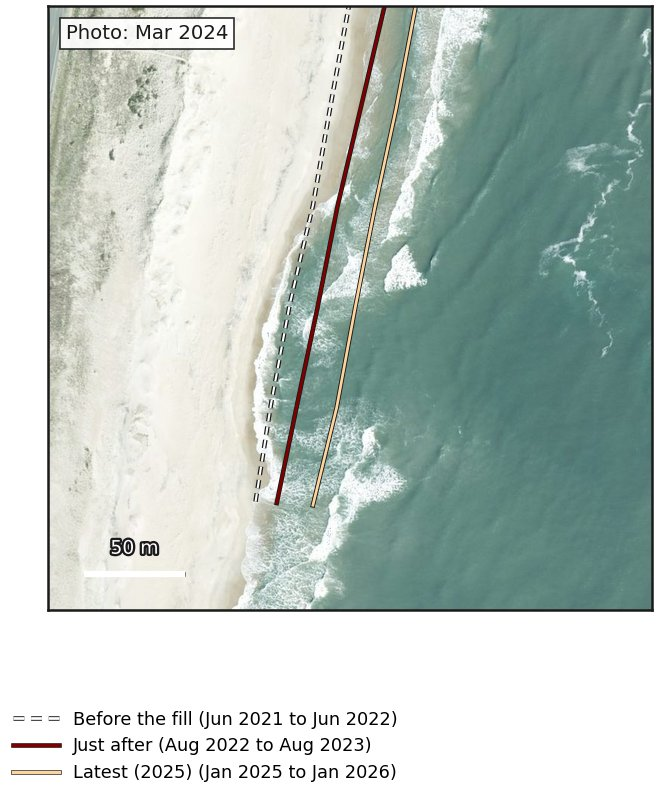
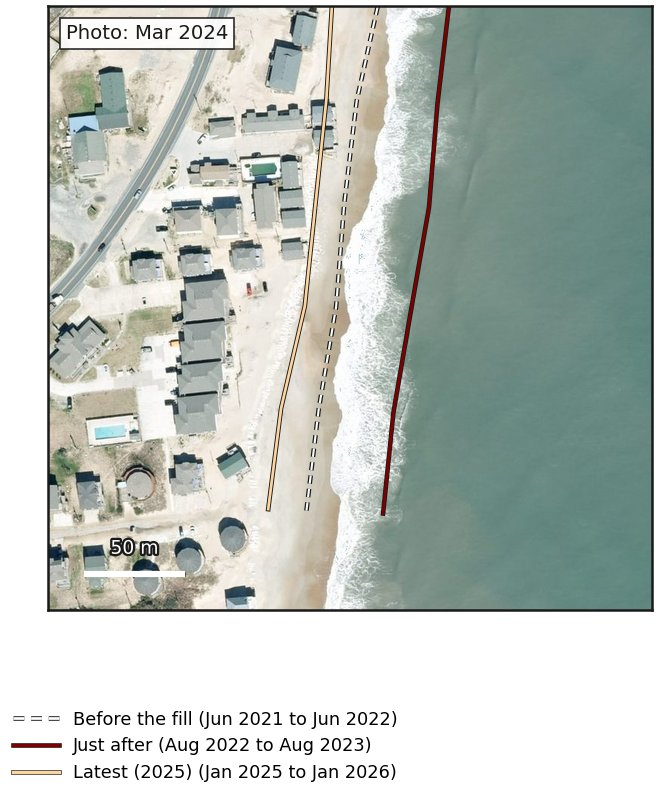
Pair each fill with the nearest aerial photos and their own shorelines
The before and after photos now come from the national agriculture imagery flights, taken weeks to months after each fill instead of years, and each photo carries the satellite shoreline from the time it was flown. The view sits where the new sand shows most clearly, and the caption says so.

diff --git a/assets/hatteras/js/nourishment-explorer.js b/assets/hatteras/js/nourishment-explorer.js
@@ -90,13 +90,15 @@
     var img = fig.querySelector("img");
     img.src = this.root.getAttribute("data-base") + p.src;
     img.alt = "Aerial photos of the same stretch of beach at " + name + ", before (" + p.before + ") and after (" + p.after +
-      ") the " + f.year + " fill, with the average shoreline of the 12 months before and after the fill drawn on them";
-    fig.querySelector("figcaption").innerHTML = "The same 300 m of beach at " + name + ", before and after the " + f.year +
-      " fill (sand placed " + p.placed + "). The dashed line is the average satellite shoreline over the 12 months before " +
-      "the sand went on; the solid line is the average over the 12 months after it was finished. The view sits where the " +
-      "change matches the average for the whole nourished stretch. The photos are the nearest ones flown before and after, " +
-      "so the water's edge in them need not sit on the lines. " +
-      "Photos: NC OneMap / NC Center for Geographic Information and Analysis. Shorelines: CoastSat.";
+      ") the " + f.year + " fill, with the satellite shoreline at the time of each photo drawn on them";
+    fig.querySelector("figcaption").innerHTML = "The same 300 m of beach at " + name + ", photographed from the air on " + p.before +
+      " and on " + p.after + ", before and after the " + f.year + " fill (sand placed " + p.placed + "). Each line is the " +
+      "satellite shoreline at the time of its photo, the average of the three satellite images nearest the flight. The view " +
+      "is the part of the nourished stretch where the shoreline moved furthest between the two photos, so the new sand shows " +
+      "clearly. The gap between the lines includes everything that changed between the two dates, not only the fill; the " +
+      "chart further down compares the fill with the rest of the island. Satellite shorelines mark mean sea level, so they sit " +
+      "a little landward of the wet edge in a photo taken at low tide. Photos: USDA National Agriculture Imagery Program " +
+      "(public domain), via Microsoft Planetary Computer. Shorelines: CoastSat.";
     var base = this.root.getAttribute("data-base"), refill = /refill/.test(p.moments.join(" "));
     var tt = this.root.querySelector(".hat-nx-time"), pr = this.root.querySelector(".hat-nx-profile");
     tt.hidden = pr.hidden = false;

diff --git a/tools/hatteras_nourishment_photos.py b/tools/hatteras_nourishment_photos.py
@@ -4,18 +4,20 @@ stakeholder pages.
 
     python tools/hatteras_nourishment_photos.py
 
-For each fill, two NC OneMap aerial photos of the same 300 m x 300 m frame on the nourished stretch: the
-last photo year before the fill and the first one after it. The lines are as close to the fill as the record allows:
-the average of every CoastSat shoreline in the 12 months before sand placement started (dashed, on both photos) and in
-the 12 months after it finished (solid, on the after photo), placed along the transects as in
-tools/hatteras_groin_photos.py. A full 12 months on each side keeps the summer and winter beach in both, and single
-shorelines scatter by about 10 m with tide and waves, so a shorter window would not be closer, only noisier. Hannah
-asked (2026-10-04) for real photos with the shorelines, one pair per fill, a tight frame, thin lines, and the lines
-matched as close to the fill as possible. The lines are raw positions, not the explorer's comparison with the rest of the island, and they need not
+For each fill, two USDA NAIP aerial photos (public domain, flown every two years in summer or autumn) of the same
+300 m x 300 m frame: the last flight before sand placement started and the first one after it finished, weeks to
+months after for every fill (NC OneMap flies Dare County only once in four years, so its nearest photos were one to
+three years away). Each photo carries the CoastSat shoreline of its own date, the average of the satellite shorelines
+within 30 days of the flight, so the line describes the beach in the photo (dashed: before, on both photos; solid:
+after). Lines are placed along the transects as in tools/hatteras_groin_photos.py. CoastSat marks mean sea level, so
+the line sits a little landward of the wet edge in a photo flown at low tide. Hannah asked (2026-10-04) for real
+photos with the shorelines, one pair per fill, a tight frame, thin lines, the fill clearly visible and the lines
+matching the imagery. The lines are raw positions, not the explorer's comparison with the rest of the island, and they need not
 match the water's edge in the photos, which were flown on other dates and tides.
-The frame goes where the change is typical: on the 300 m of beach (7 transects) whose average change between the two
-two windows is closest to the stretch's average, keeping 500 m clear of each end. Hannah chose this rule (2026-10-04)
-after the middle of the Buxton stretch turned out to have lost ground after the small 2022 fill while both ends gained.
+The frame goes where the fill shows most clearly: the 300 m of beach (7 transects) with the largest shoreline change
+between the two photo dates, keeping 500 m clear of each end of the stretch. Hannah first chose the typical spot
+(change closest to the stretch average), then asked (2026-10-04) for the spot where the fill is clearly visible; the
+caption says how the spot was chosen and the JSON keeps both the spot's change and the stretch average.
 Writes assets/hatteras/img/nourishment/<stretch>_<year>.jpg and assets/hatteras/data/nourishment_photos.json (keyed
 "<stretch> <year>" as the explorer names its fills). Photos are saved under tools/data/nourishment_photos/ so a re-run
 only redraws; pass --fetch to download them again. Needs the CASCADE repo beside this one.
@@ -63,8 +65,13 @@ PLACED_TEXT = {("Rodanthe", 2014): "late July to mid-September 2014", ("Buxton",
 DATES_CSV = SITE.parent / "CASCADE/data/hatteras_init/4-mgmt-forcing/nourishment/datasets/nourishment_placement_dates.csv"
 DATES_NAMES = {("Rodanthe", 2014): "Rodanthe emergency fill", ("Buxton", 2017): "Buxton beach nourishment",
                ("Buxton", 2022): "Buxton shore protection", ("Avon", 2022): "Avon shore protection"}
-# stretch, fill year, photo years before and after
-FILLS = [("Rodanthe", 2014, 2012, 2016), ("Buxton", 2017, 2016, 2020), ("Buxton", 2022, 2020, 2024), ("Avon", 2022, 2020, 2024)]
+# stretch, fill year, NAIP flight dates before and after (Planetary Computer STAC, searched 2026-10-04)
+FILLS = [("Rodanthe", 2014, "2012-06-28", "2014-10-17"), ("Buxton", 2017, "2016-09-10", "2018-10-29"),
+         ("Buxton", 2022, "2020-10-18", "2022-10-07"), ("Avon", 2022, "2020-10-18", "2022-10-07")]
+STAC = "https://planetarycomputer.microsoft.com/api/stac/v1/search"
+SIGN = "https://planetarycomputer.microsoft.com/api/sas/v1/sign?href="
+PHOTO_NEAREST = 3                        # a photo's line: the mean of the satellite shorelines nearest its flight
+PHOTO_MAX_DAYS = 130                     # ... none further than this (the sparse 2012 and 2020 passes reach ~4 months)
 WINDOW = 7                               # transects, 50 m apart: the frame's 300 m
 END_CLEAR_KM = 0.5
 LINE, REF_LINE = "#ffd23f", "#ffffff"
@@ -95,9 +102,20 @@ def series(tid):
     return _SERIES[tid]
 
 
+GAPS = []                                # days from each photo line's shorelines to its flight, for the caption
+
+
 def mean_in(t, w):
-    """Mean shoreline position on one transect inside a window, or None with fewer than three shorelines."""
+    """Mean shoreline position on one transect inside a window, or None with fewer than three shorelines. A window
+    given as a flight date takes the PHOTO_NEAREST shorelines closest to it instead."""
     date, pos = series(t["id"])
+    if isinstance(w, str):
+        gap = np.abs((date - pd.Timestamp(w, tz="UTC")).dt.days.values)
+        order = np.argsort(gap)[:PHOTO_NEAREST]
+        if len(order) < PHOTO_NEAREST or gap[order[-1]] > PHOTO_MAX_DAYS:
+            return None
+        GAPS.append(int(gap[order[-1]]))
+        return float(pos.values[order].mean())
     sel = pos[(date >= w[0]) & (date < w[1])]
     return float(sel.mean()) if len(sel) >= 3 else None
 
@@ -122,6 +140,53 @@ def shorelines(transects, box, wins):
             if m is not None:
                 out[i].append(tuple(a + u * m * k))
     return out
+
+
+def naip_export(date, box, size):
+    """The NAIP photo flown on `date`, warped onto the Web Mercator box (tiles that meet in the frame are combined)."""
+    import urllib.request
+    import rasterio
+    from rasterio.warp import reproject, Resampling, transform_bounds
+    from rasterio.transform import from_bounds
+    lon0, lat0, lon1, lat1 = transform_bounds("EPSG:3857", "EPSG:4326", *box)
+    body = json.dumps({"collections": ["naip"], "bbox": [lon0, lat0, lon1, lat1], "datetime": f"{date}T00:00:00Z/{date}T23:59:59Z",
+                       "limit": 20}).encode()
+    req = urllib.request.Request(STAC, data=body, headers={"Content-Type": "application/json"})
+    items = json.load(urllib.request.urlopen(req, timeout=120))["features"]
+    assert items, f"no NAIP flight on {date} over the frame"
+    dst = np.zeros((3, size, size), dtype=np.uint8)
+    dst_t = from_bounds(*box, size, size)
+    for it in items:
+        href = json.load(urllib.request.urlopen(SIGN + it["assets"]["image"]["href"], timeout=120))["href"]
+        with rasterio.open(href) as src:
+            part = np.zeros_like(dst)
+            for b in range(3):
+                reproject(rasterio.band(src, b + 1), part[b], dst_transform=dst_t, dst_crs="EPSG:3857",
+                          resampling=Resampling.bilinear)
+            empty = dst.sum(axis=0) == 0
+            dst[:, empty] = part[:, empty]
+    return Image.fromarray(np.moveaxis(dst, 0, -1)).convert("RGBA")
+
+
+def photo_window(date):
+    """A photo's 'window' is its flight date; mean_in() then takes the nearest shorelines instead of a date range."""
+    return str(date)
+
+
+def clearest_spot(transects, km, w0, w1):
+    """The centre transect of the 7-transect window with the largest mean change, and that change and the stretch's."""
+    on = [t for t in transects if km[0] <= t["km"] <= km[1]]
+    dx = [change(t, w0, w1) for t in on]
+    mean = np.mean([v for v in dx if v is not None])
+    best = None
+    for i in range(len(on) - WINDOW + 1):
+        w = dx[i:i + WINDOW]
+        c = on[i + WINDOW // 2]
+        if None in w or not (km[0] + END_CLEAR_KM <= c["km"] <= km[1] - END_CLEAR_KM):
+            continue
+        if best is None or np.mean(w) > best[0]:
+            best = (float(np.mean(w)), c)
+    return best[1], mean, best[0]
 
 
 def typical_spot(transects, km, y0, y1):
@@ -279,17 +344,19 @@ def main():
     halo = [pe.withStroke(linewidth=2.2, foreground="#1a1a1a")]
     out = {}
     for stretch, year, yb, ya in FILLS:
-        wb, wa = windows(stretch, year)
-        spot, mean, here = typical_spot(rates["transects"], stretches[stretch]["km"], wb, wa)
-        print(f"{stretch} {year}: stretch mean {mean:+.1f} m, frame at km {spot['km']:.2f} ({here:+.1f} m)")
-        box, k = frame(spot, wb)
-        lines = shorelines(rates["transects"], box, (wb, wa))
+        pb, pa = photo_window(yb), photo_window(ya)
+        spot, mean, here = clearest_spot(rates["transects"], stretches[stretch]["km"], pb, pa)
+        print(f"{stretch} {year}: {yb} -> {ya}, stretch mean {mean:+.1f} m, frame at km {spot['km']:.2f} ({here:+.1f} m)")
+        box, k = frame(spot, pb)
+        GAPS.clear()
+        lines = shorelines(rates["transects"], box, (pb, pa))
+        gap_days = max(GAPS) if GAPS else None
         lb, la = 0, 1
         fig, axes = plt.subplots(1, 2, figsize=(8, 4.25), gridspec_kw={"wspace": 0.03})
         for i, (ax, y) in enumerate(zip(axes, (yb, ya))):
-            p = PHOTOS / f"{stretch.lower()}_{year}_{box[0]:.0f}_{box[1]:.0f}_{y}.jpg"
+            p = PHOTOS / f"naip_{y}_{box[0]:.0f}_{box[1]:.0f}.jpg"
             if args.fetch or not p.exists():
-                img.save(img.export_nconemap(SERVICES[y], box, (PX, PX)), p)
+                img.save(naip_export(y, box, PX), p)
                 print(f"fetched {p.name}")
             ax.imshow(Image.open(p), extent=[box[0], box[2], box[1], box[3]], interpolation="lanczos")
             xs, ys = zip(*lines[lb])
@@ -304,7 +371,8 @@ def main():
             for s in ax.spines.values():
                 s.set_color("#1a1a1a")
                 s.set_linewidth(1.2)
-            ax.text(0.03, 0.97, f"({'ab'[i]}) {'Before' if i == 0 else 'After'}: {WHEN[y]}", transform=ax.transAxes,
+            ax.text(0.03, 0.97, f"({'ab'[i]}) {'Before' if i == 0 else 'After'}: {pd.Timestamp(y).day} {pd.Timestamp(y):%b %Y}",
+                    transform=ax.transAxes,
                     ha="left", va="top", fontsize=9.5, color="#1a1a1a",
                     bbox=dict(boxstyle="square,pad=0.3", fc="white", ec="#1a1a1a", lw=0.8, alpha=0.92))
         ax = axes[0]
@@ -315,8 +383,8 @@ def main():
                     color="white", fontsize=10, fontweight="bold", arrowprops=dict(arrowstyle="-|>", color="white", lw=1.4),
                     path_effects=halo)
         from matplotlib.lines import Line2D
-        fig.legend(handles=[Line2D([], [], color=REF_LINE, lw=1.2, ls=(0, (4, 2.5)), path_effects=halo, label="Shoreline, 12 months before the fill"),
-                            Line2D([], [], color=LINE, lw=1.4, path_effects=halo, label="Shoreline, 12 months after")],
+        fig.legend(handles=[Line2D([], [], color=REF_LINE, lw=1.2, ls=(0, (4, 2.5)), path_effects=halo, label="Satellite shoreline at the time of photo (a)"),
+                            Line2D([], [], color=LINE, lw=1.4, path_effects=halo, label="At the time of photo (b)")],
                    loc="lower center", ncol=2, frameon=False, fontsize=9.5, bbox_to_anchor=(0.5, -0.02), handlelength=3)
         name = f"{stretch.lower()}_{year}.jpg"
         fig.savefig(OUT_IMG / name, dpi=150, bbox_inches="tight", pad_inches=0.04, pil_kwargs={"quality": 85, "optimize": True})
@@ -326,10 +394,12 @@ def main():
             img.save(img.export_nconemap(SERVICES[2024], box, (PX, PX)), latest)
         tt_name, tt_labels = through_time(stretch, year, rates["transects"], box, k, latest, halo)
         pr_name, pr_labels = profile(stretch, year, rates["transects"], stretches[stretch]["km"], nx["places"])
-        out[f"{stretch} {year}"] = {"src": f"/assets/hatteras/img/nourishment/{name}", "before": WHEN[yb], "after": WHEN[ya],
+        out[f"{stretch} {year}"] = {"src": f"/assets/hatteras/img/nourishment/{name}",
+                                    "before": f"{pd.Timestamp(yb).day} {pd.Timestamp(yb):%B %Y}",
+                                    "after": f"{pd.Timestamp(ya).day} {pd.Timestamp(ya):%B %Y}",
                                     "through_time": f"/assets/hatteras/img/nourishment/{tt_name}", "moments": tt_labels,
                                     "profile": f"/assets/hatteras/img/nourishment/{pr_name}", "profile_lines": pr_labels,
-                                    "placed": PLACED_TEXT[(stretch, year)],
+                                    "placed": PLACED_TEXT[(stretch, year)], "line_gap_days": gap_days,
                                     "km": round(spot["km"], 2), "change_m": round(here, 1), "stretch_change_m": round(mean, 1)}
         print(f"wrote {name}: {len(lines[lb])} / {len(lines[la])} transects")
     OUT_JSON.write_text(json.dumps(out, indent=1, ensure_ascii=False), encoding="utf-8")
